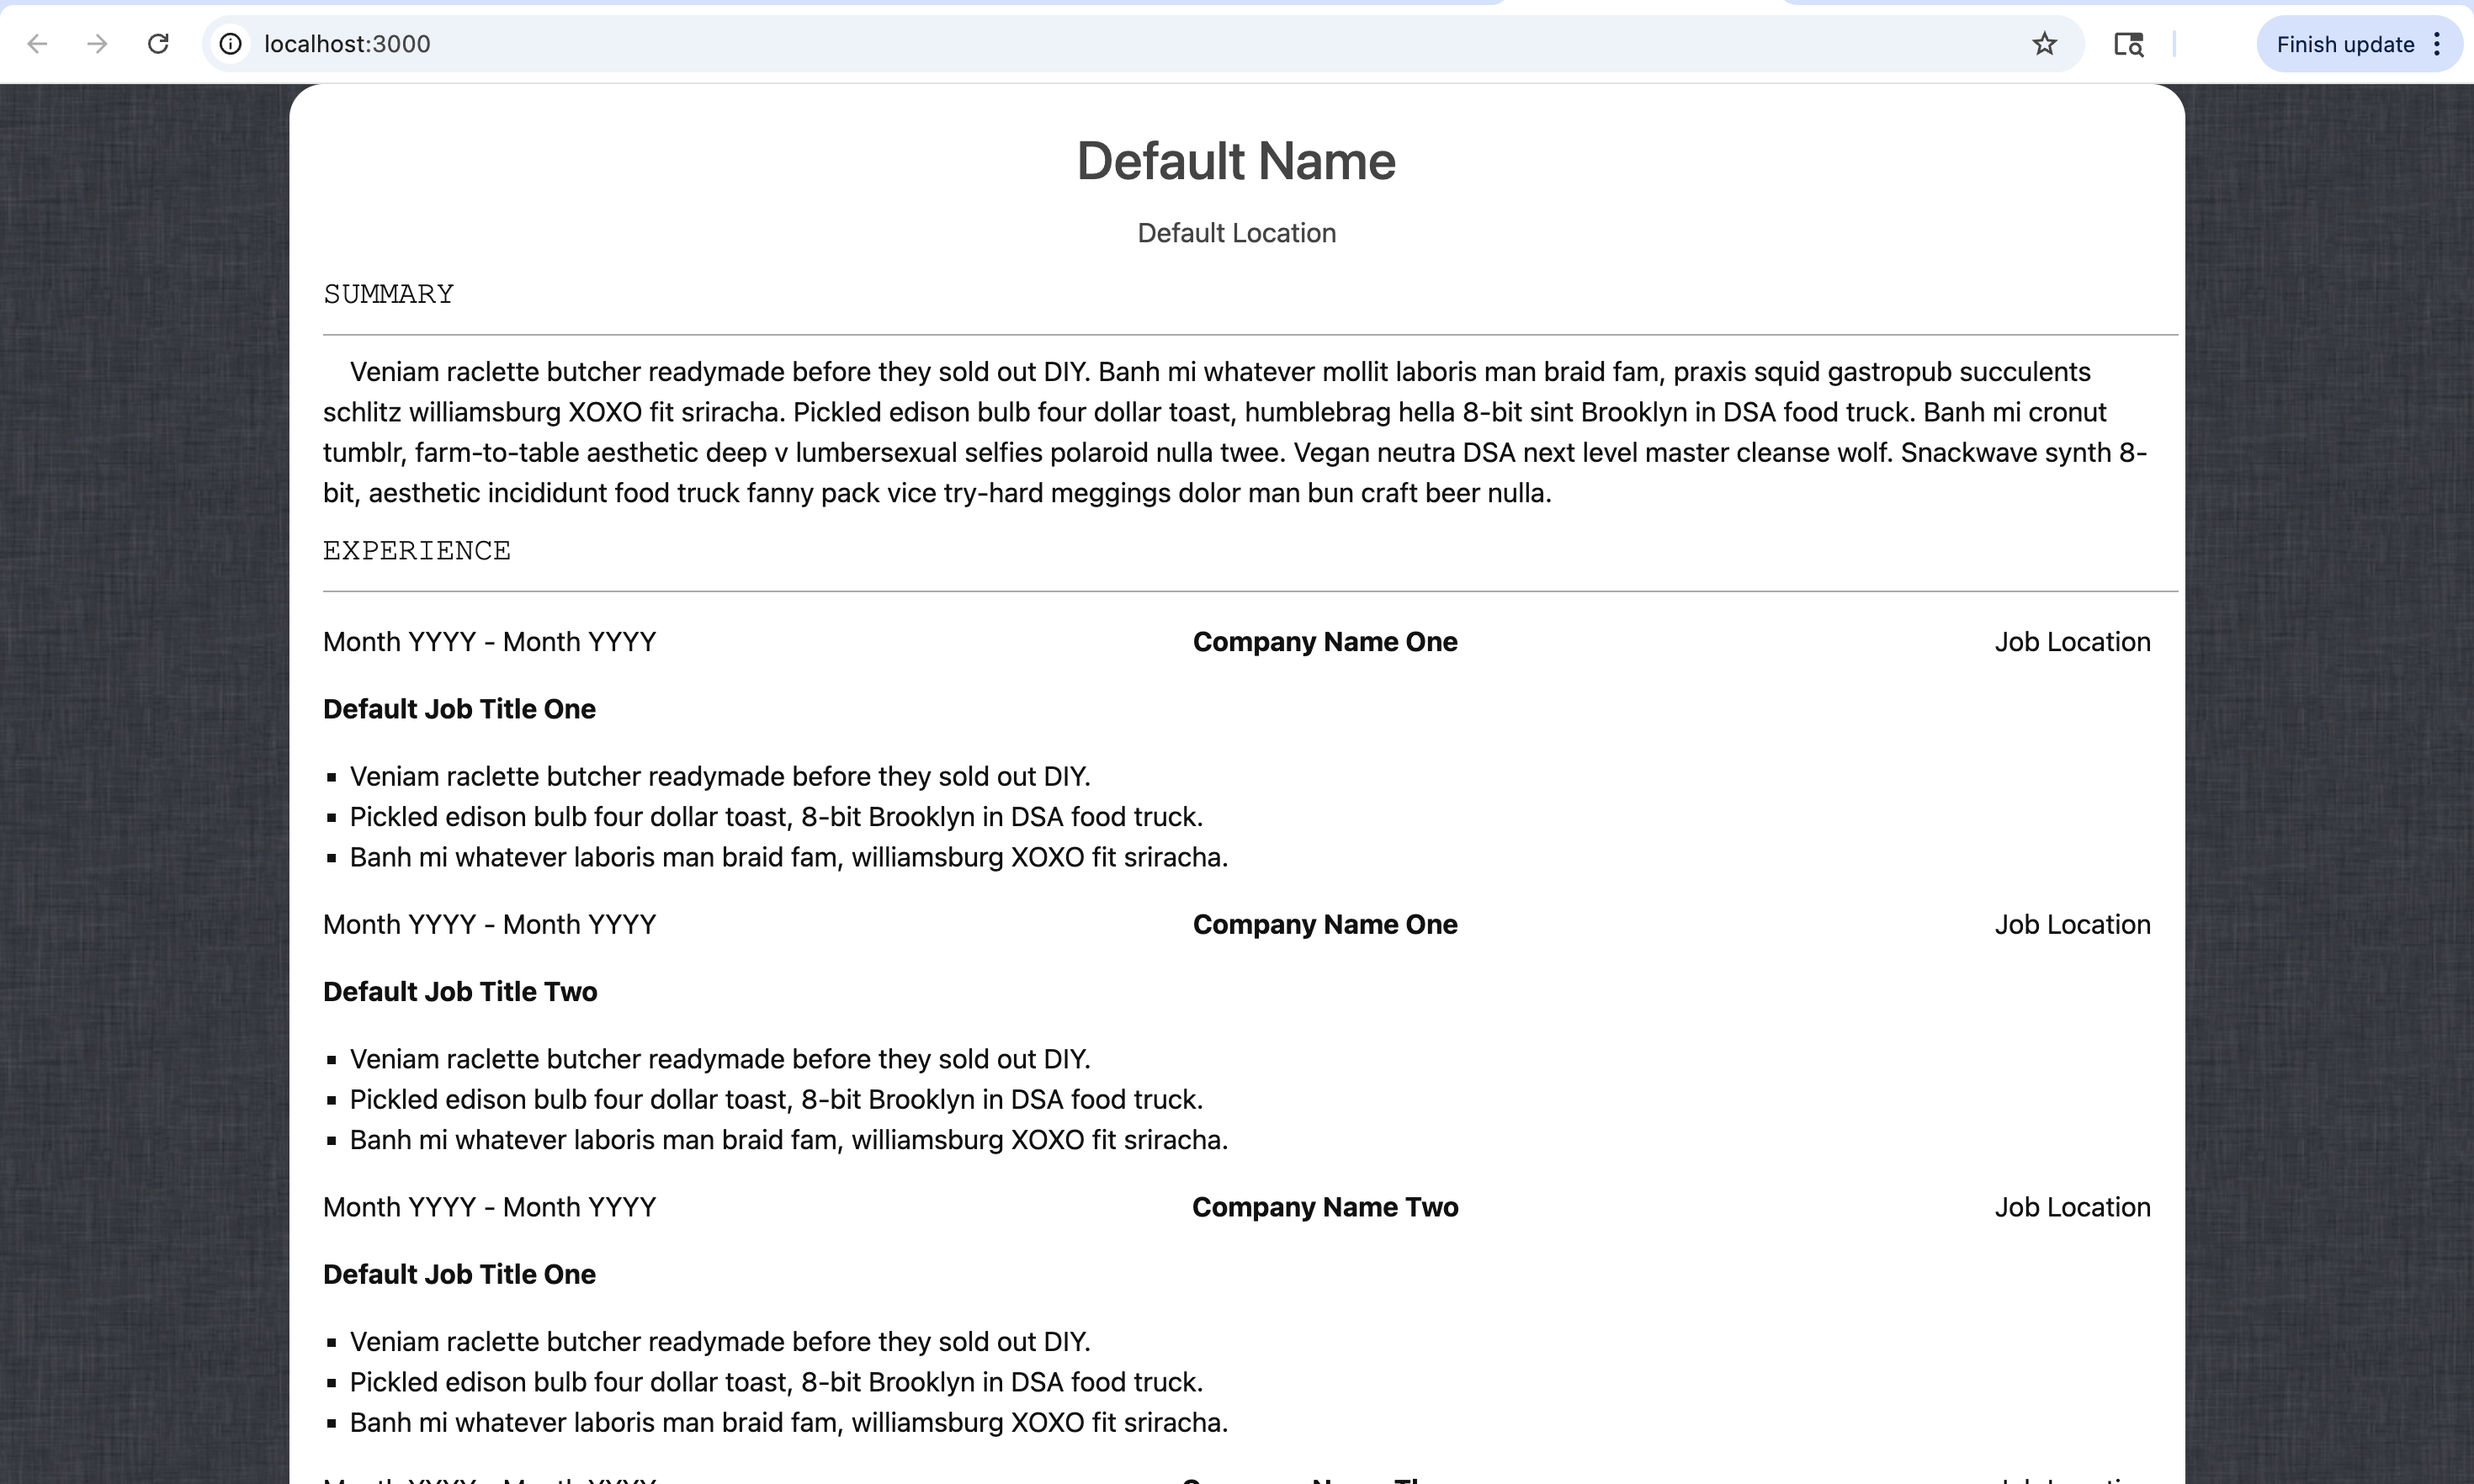
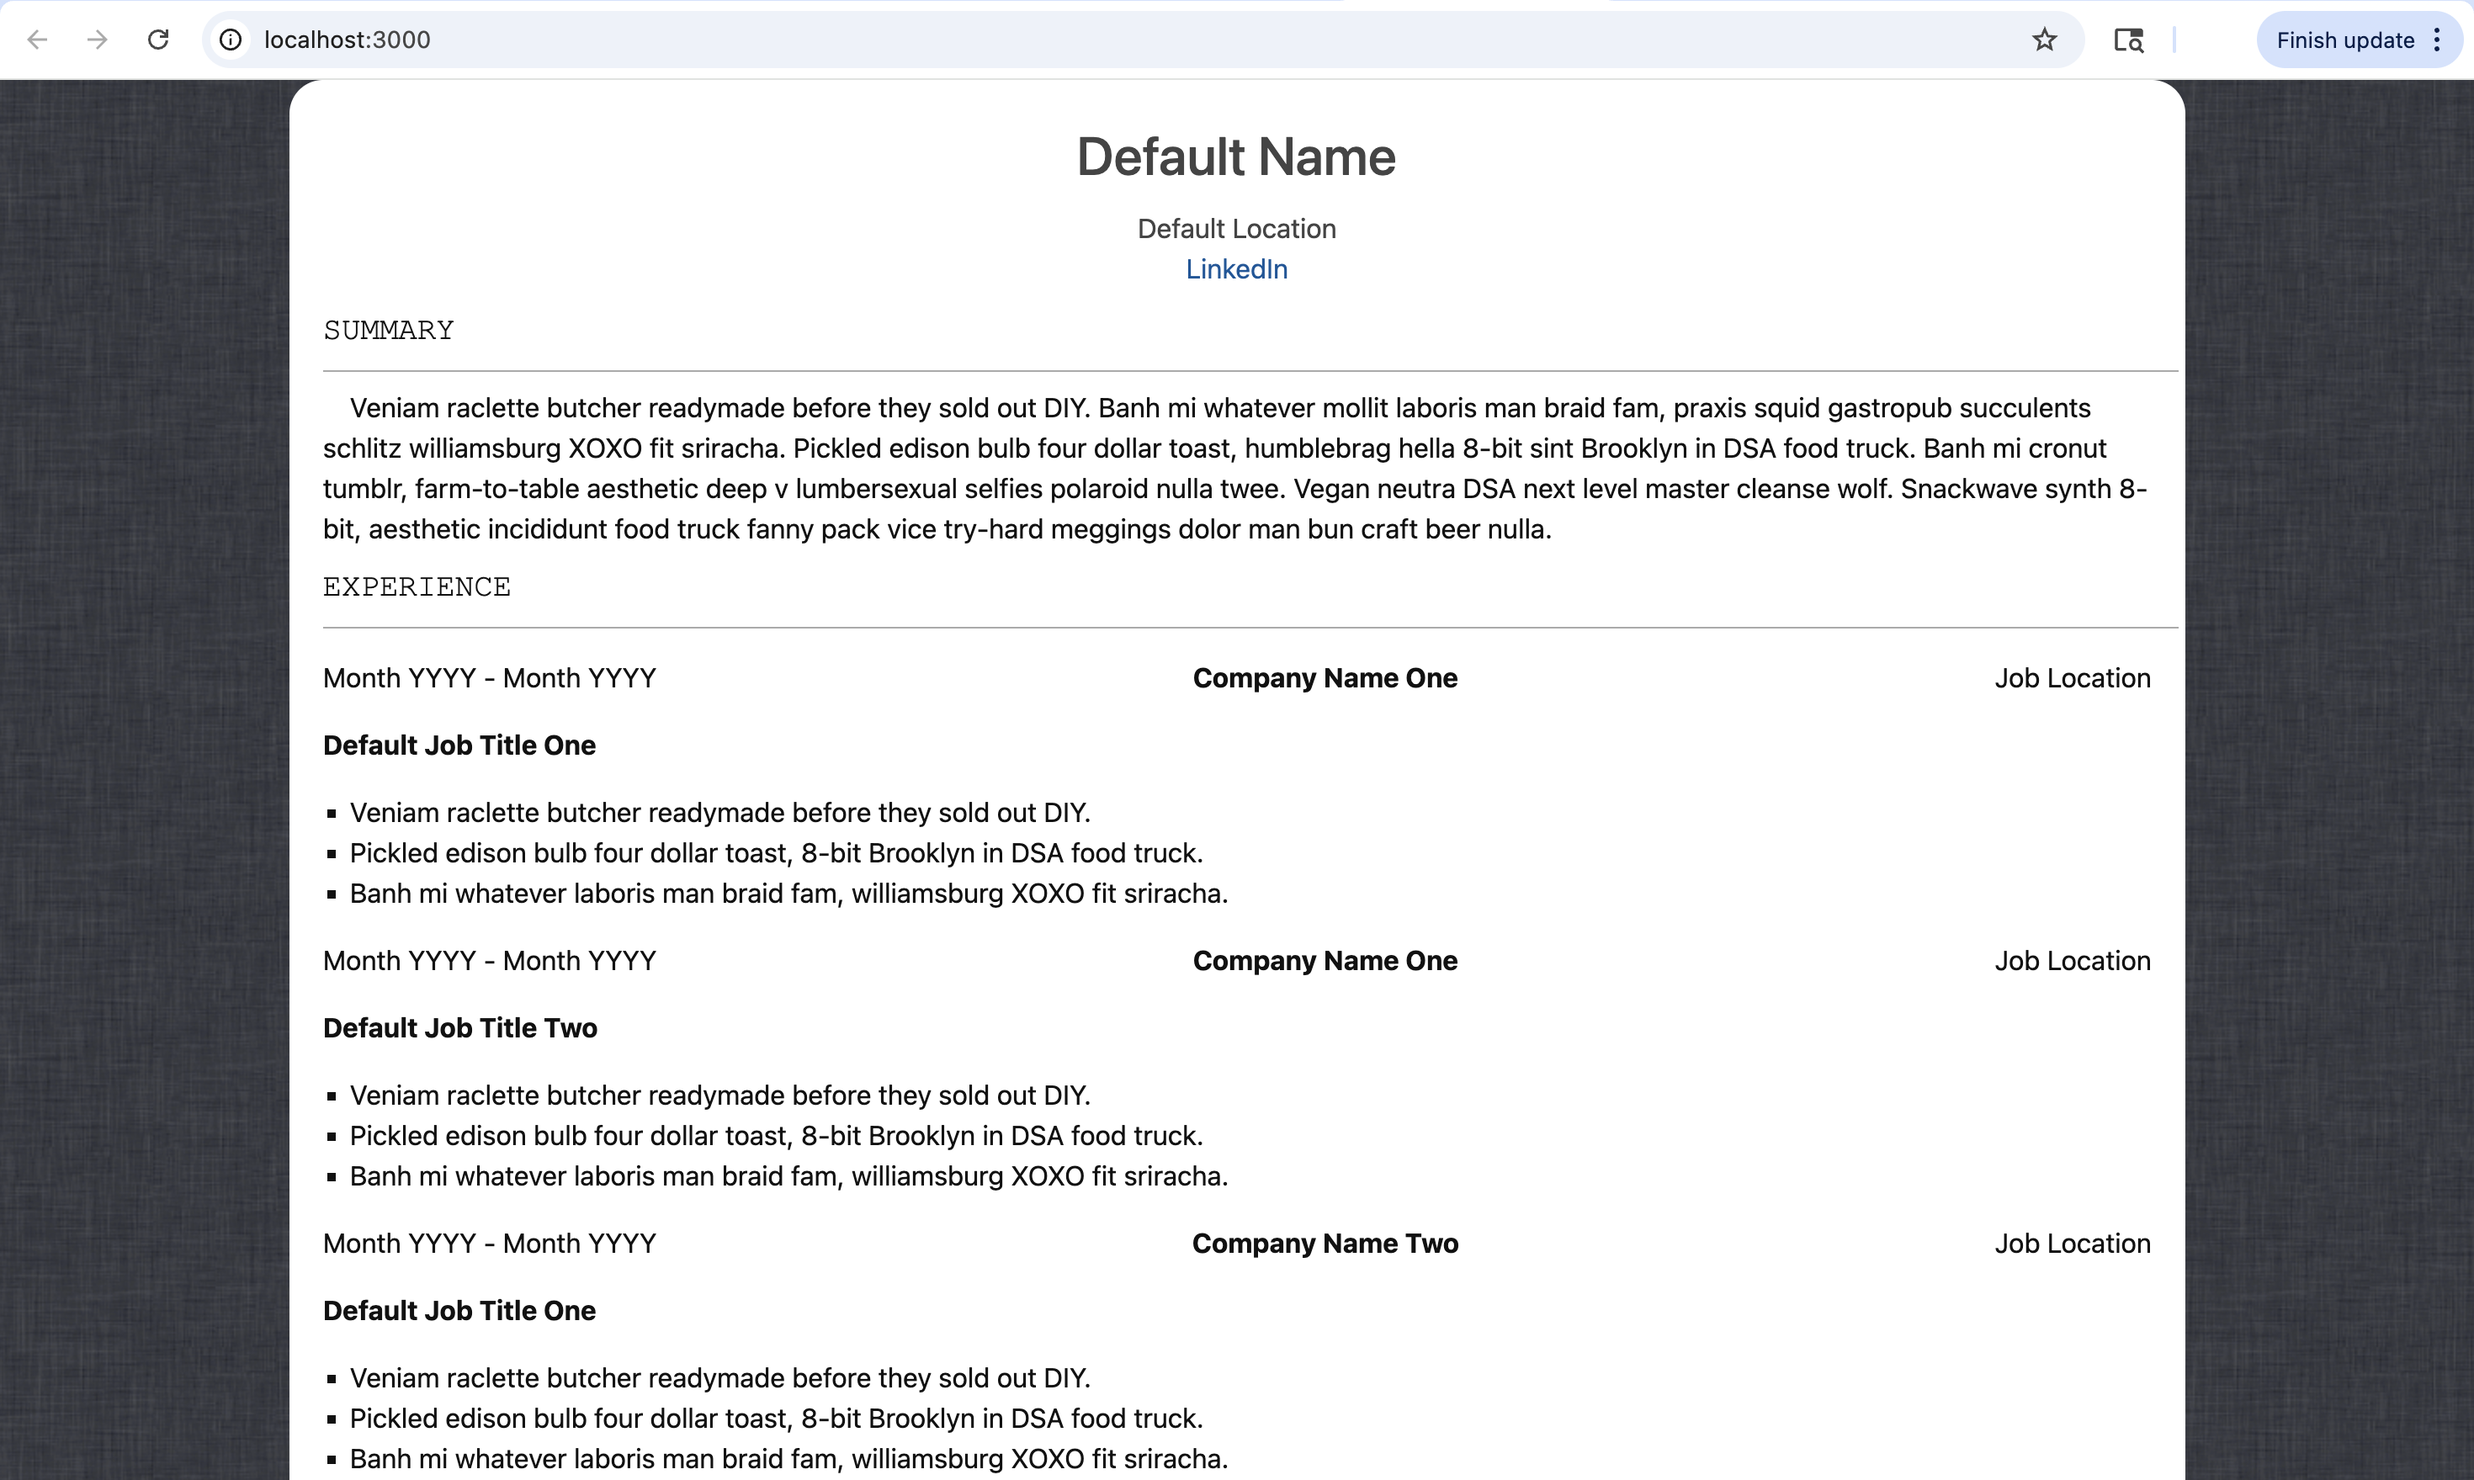
Updating screenshots and including linkedin besides printed versions

diff --git a/src/components/contact/Contact.tsx b/src/components/contact/Contact.tsx
@@ -14,7 +14,7 @@ const ContactHeader = ({ name, location, linkedIn } : Contact) => {
             <h1 className='contact-name'>{contactName}</h1>
             <div className='contact-location'>{contactLocation}</div>
             {!!linkedIn &&
-                (<div>
+                (<div className={'no-print'}>
                     <a href={linkedIn} target='_blank' rel='noreferrer'>
                             LinkedIn
                     </a>

diff --git a/src/App.css b/src/App.css
@@ -88,3 +88,9 @@ ul {
         font-size: 1.5rem;
     }
 }
+
+@media print {
+    .no-print {
+        display: none !important; /* Use !important to ensure override */
+    }
+}
